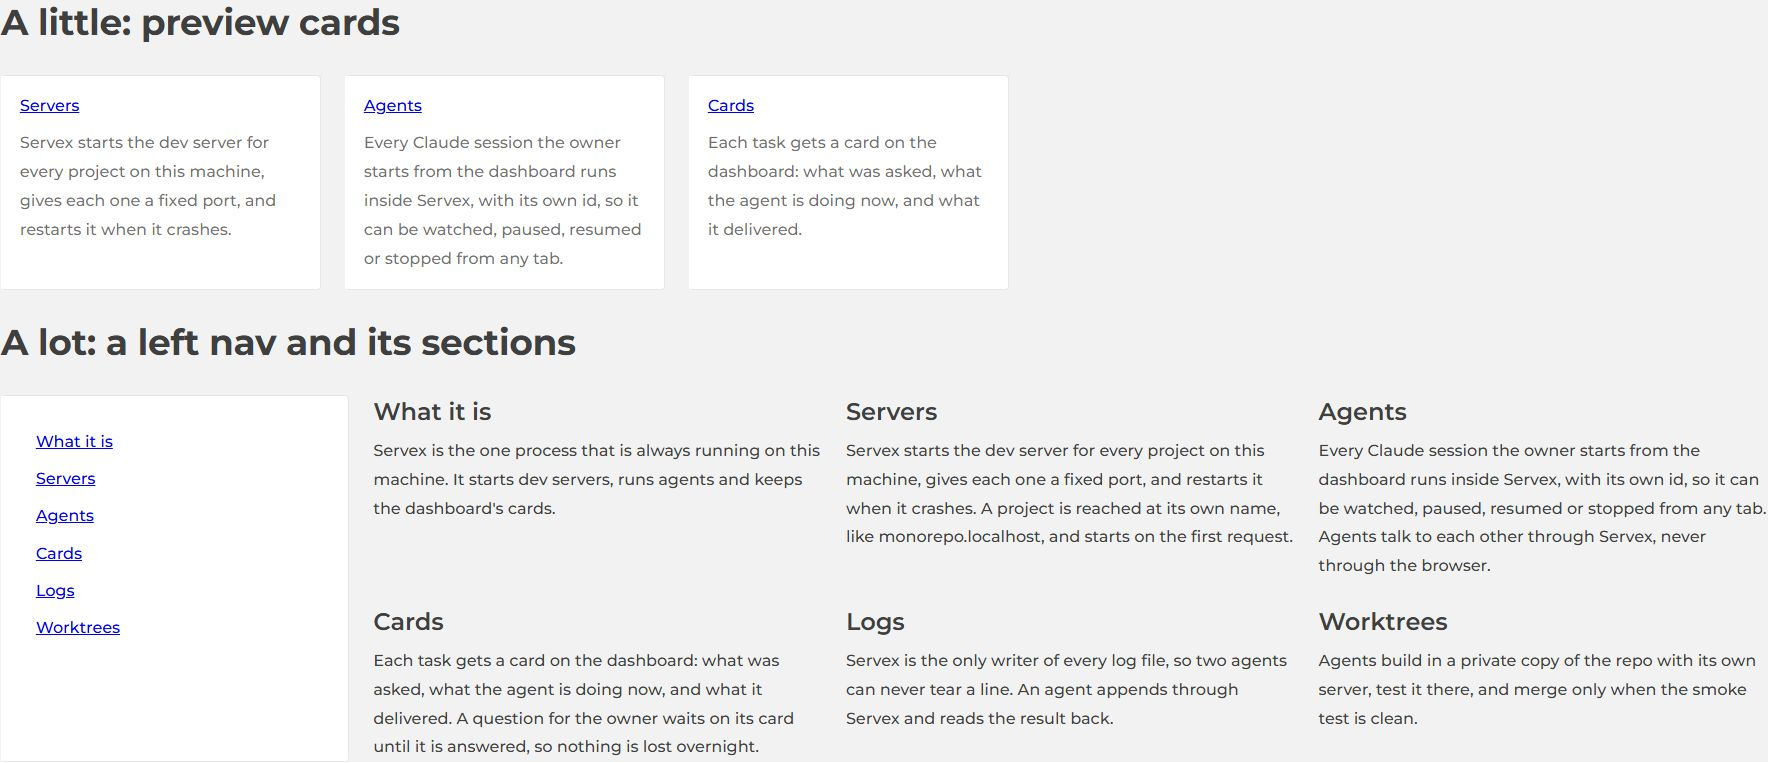
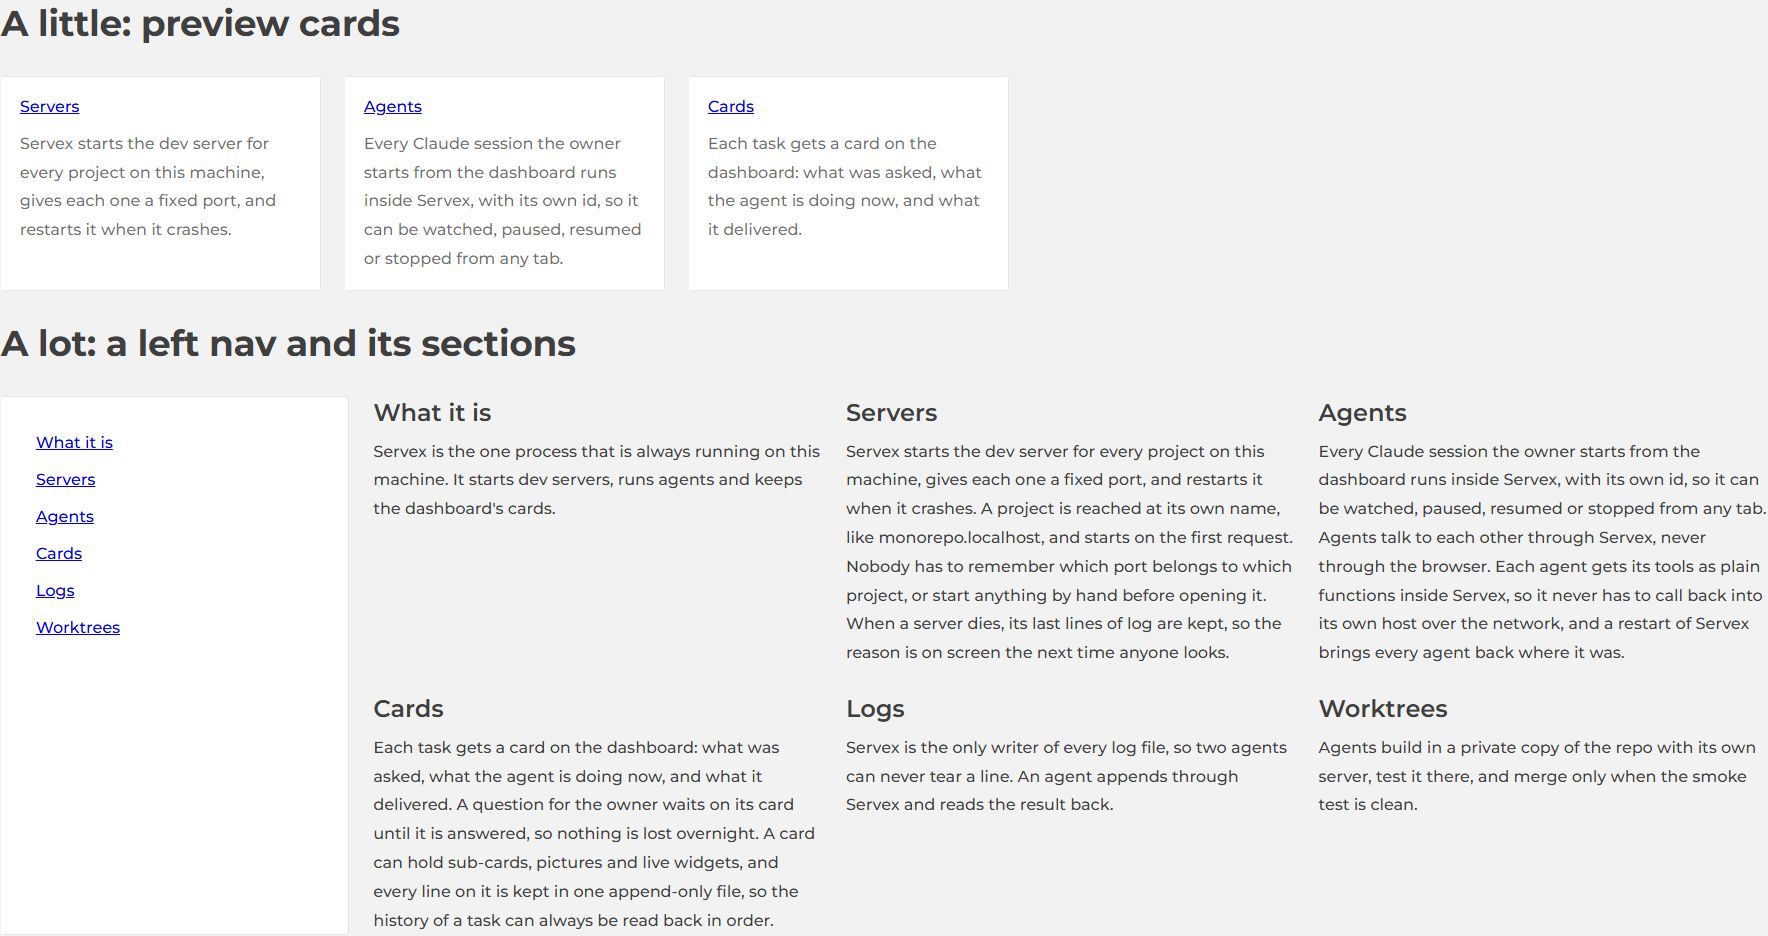
layouts/decide: review fixes (demo text, pictures one per row, C1-C5 naming, gen-questions, servex picks)

diff --git a/public/layouts/decide/demo.js b/public/layouts/decide/demo.js
@@ -1,4 +1,4 @@
-import { View, div, md, h3, p, ul, li, img, figure, figcaption } from "/app.js";
+import { View, div, md, h3, p, img, figure, figcaption } from "/app.js";
 
 View.stylesheet(import.meta, "decide.css");
 
@@ -10,13 +10,14 @@ View.stylesheet(import.meta, "decide.css");
 
    `live(fn)` wraps the demo in `.std-decide-live`, a hook with no CSS of its own: shoot.mjs
    screenshots exactly that element. It claims `wide`, because three columns of content never
-   live in the reading track (the layout skill, question 2).
+   live in the reading track (the layout skill, "The five questions" (sizing), question 2).
 
    The content is real: Servex and its three parts, from /framework/servex/. */
 
 export function pictures(meta, slug){
 	const here = new URL("./shots/", meta.url).pathname;
-	div.c("grid auto gap wide", () => {
+	// One picture per row: the 3440 shot is a wide strip, unreadable at half width.
+	div.c("flex v gap wide", () => {
 		for (const w of [1920, 3440]){
 			figure.c("flex v gap-35", () => {
 				img().attr("src", `${here}${slug}-${w}.jpg`).attr("alt", `The demo below, at ${w}px wide`).attr("loading", "lazy")
@@ -24,7 +25,7 @@ export function pictures(meta, slug){
 				figcaption.c("muted", `At ${w}px wide`);
 			});
 		}
-	}).style("--column", "24rem");
+	});
 }
 
 export function live(fn){
@@ -34,9 +35,9 @@ export function live(fn){
 
 // The three parts of Servex, each about the same length on purpose (the equal-height demo).
 export const PARTS = [
-	{ title: "Servers", body: "Servex starts the dev server for every project on this machine, gives each one a fixed port, and restarts it when it crashes. A project is reached at its own name, like monorepo.localhost, and starts on the first request." },
-	{ title: "Agents", body: "Every Claude session the owner starts from the dashboard runs inside Servex, with its own id, so it can be watched, paused, resumed or stopped from any tab. Agents talk to each other through Servex, never through the browser." },
-	{ title: "Cards", body: "Each task gets a card on the dashboard: what was asked, what the agent is doing now, and what it delivered. A question for the owner waits on its card until it is answered, so nothing is lost overnight." },
+	{ title: "Servers", body: "Servex starts the dev server for every project on this machine, gives each one a fixed port, and restarts it when it crashes. A project is reached at its own name, like monorepo.localhost, and starts on the first request. Nobody has to remember which port belongs to which project, or start anything by hand before opening it. When a server dies, its last lines of log are kept, so the reason is on screen the next time anyone looks." },
+	{ title: "Agents", body: "Every Claude session the owner starts from the dashboard runs inside Servex, with its own id, so it can be watched, paused, resumed or stopped from any tab. Agents talk to each other through Servex, never through the browser. Each agent gets its tools as plain functions inside Servex, so it never has to call back into its own host over the network, and a restart of Servex brings every agent back where it was." },
+	{ title: "Cards", body: "Each task gets a card on the dashboard: what was asked, what the agent is doing now, and what it delivered. A question for the owner waits on its card until it is answered, so nothing is lost overnight. A card can hold sub-cards, pictures and live widgets, and every line on it is kept in one append-only file, so the history of a task can always be read back in order." },
 ];
 
 export function column(part){
@@ -53,4 +54,3 @@ export function title_column({ centred }){
 	});
 }
 
-export { ul, li };

diff --git a/public/layouts/decide/servex/page.js b/public/layouts/decide/servex/page.js
@@ -1,4 +1,13 @@
-import { Page, md } from "/app.js";
+import { Page, md, div, p, h3 } from "/app.js";
+
+// The pick from each answer in answers.md, copied by hand after the run.
+const PICKS = [
+	["How much room is there?", "Most of a 3440 screen"],
+	["How much content is there?", "A little"],
+	["Is it outlined yet?", "Yes"],
+	["How will the content fill the width?", "A wall of cards"],
+	["Which approved layout fits?", "Tile wall"],
+];
 
 /* LAYOUT. Container: a child of /layouts/decide/, the ordinary page grid. Size: prose, the
    `main` track. Own layout: one markdown file. Preview: the default card.
@@ -13,7 +22,10 @@ export default new Page({
 	description: "The five questions, asked of /framework/servex/.",
 
 	content(){
-		md("**The five questions, asked of a real page one at a time.** The page is [/framework/servex/](/framework/servex/). Each question went to the same agent as its own turn, so it could think about that one thing only; the answers are below as it gave them.");
+		md("**The five questions, asked of a real page one at a time, picked a tile wall.** The page is [/framework/servex/](/framework/servex/). Each question went to the same agent as its own turn, so it could think about that one thing only. Its five picks first; its reasoning, as it gave it, below.");
+		div.c("grid auto gap wide", () => PICKS.forEach(([q, pick], i) => {
+			div.c("card flex v gap-35", () => { p.c("muted", `${i + 1}. ${q}`); h3(pick); });
+		})).style("--column", "14rem");
 		return md.file(import.meta, "answers.md");
 	},
 });

diff --git a/public/layouts/decide/questions.js b/public/layouts/decide/questions.js
@@ -1,6 +1,6 @@
-/* The layout decision questions: ONE copy, read by the page (/layouts/decide/) and written out
-   as questions.md for Server/ask-each.mjs. The same list, in prose, sits in the `layout` skill
-   under "Choosing a layout". Change one, change all three.
+/* The layout decision questions, read by the page (/layouts/decide/). gen-questions.mjs writes
+   questions.md from this file for Server/ask-each.mjs. The same list, in prose, sits in the
+   `layout` skill under "Choosing a layout (before sizing)"; change that one by hand.
 
    Each question is a judgement, worded with examples, never a do/don't rule: the owner
    (2026-09-28, 11:15 PM) warned that a rule gets followed too literally. The answers are the

diff --git a/public/layouts/decide/page.js b/public/layouts/decide/page.js
@@ -23,7 +23,7 @@ export default new Page({
 	children: "equal short centred amount servex",
 
 	content(){
-		md("**Answer these five questions in order, and the layout usually picks itself.** Each one is a judgement, not a rule: the answers under it are the usual ones, and a page can have a reason to pick something else.");
+		md("**Answer these five questions in order, and the layout usually picks itself.** Each one is a judgement, not a rule: the answers under it are the usual ones, and a page can have a reason to pick something else. Live demos of the fourth question are below the questions.");
 
 		div.c("grid auto gap wide", () => QUESTIONS.forEach((q, i) => {
 			div.c("card flex v gap-50", () => {

diff --git a/public/layouts/decide/equal/page.js b/public/layouts/decide/equal/page.js
@@ -11,7 +11,7 @@ export default new Page({
 	description: "Three columns that end at the same height.",
 
 	content(){
-		md("**Three columns fill a wide screen well when their content is about the same height.** Each card below holds about forty words, so the row ends in one straight line and no box has a hole in it.");
+		md("**Three columns fill a wide screen well when their content is about the same height.** Each card below holds about the same number of words, so the row ends in one straight line and no box has a hole in it.");
 		pictures(import.meta, "equal");
 		live(() => div.c("grid three gap", () => PARTS.forEach(column)).style("--column", "16rem"));
 	},

diff --git a/.claude/skills/layout/SKILL.md b/.claude/skills/layout/SKILL.md
@@ -35,30 +35,30 @@ genuinely needs to, and say why in a decision line.
 - **Look before you merge.** Screenshot the page at 1280, 1920, 2560 and 3440 (`node
   Server/layout-check.mjs <url>`) and read the contact sheet.
 
-## Choosing a layout: five questions, one at a time (the owner, 2026-09-28)
+## Choosing a layout (before sizing): C1–C5, one at a time (the owner, 2026-09-28)
 
-Before the sizing questions below, choose the layout. Think about each of these on its own,
+Before the five sizing questions below, choose the layout. These are numbered C1–C5 so they are never mistaken for those. Think about each of these on its own,
 in order; a list read all at once gets answered all at once, and thinly. Each is a judgement
 with its usual answers, not a rule. Drawn, with live demos: [/layouts/decide/](/layouts/decide/).
 
-1. **How much room is there?** Work it out top down: the site nav, a rail or a ToC are known
+- C1. **How much room is there?** Work it out top down: the site nav, a rail or a ToC are known
    before the page draws, so the room left is known too. A phone always gets one column; that
    is the floor, not the design. *Usually:* a phone · one reading column · a wide main beside a
    sidebar · most of a 3440 screen.
-2. **How much content is there?** A little (a preview card, a few lines) wants a small, tight
+- C2. **How much content is there?** A little (a preview card, a few lines) wants a small, tight
    box; a lot (many sections) wants structure a reader can steer by, such as tabs or a left nav.
    [Both, side by side](/layouts/decide/amount/).
-3. **Is it outlined yet?** A layout chosen before you know what the page says is a guess. If the
+- C3. **Is it outlined yet?** A layout chosen before you know what the page says is a guess. If the
    sections, their order, the demos and the tabs are not written down, write that outline first;
    the layout often picks itself after.
-4. **How will the content fill the width?** On a wide screen the answer is nearly always "fill
+- C4. **How will the content fill the width?** On a wide screen the answer is nearly always "fill
    it", so the question is how. Columns side by side read best when their content is roughly
    equal in height ([equal](/layouts/decide/equal/)); one short column leaves a hole
    ([short](/layouts/decide/short/)); a short title column centred vertically turns the hole into
    weight ([the fix](/layouts/decide/centred/): `flex v h-center` on the title's box).
    *Usually:* equal columns · a centred title column beside the rest · a wall of cards · a nav
    column beside a centred main · tabs or a left nav · one small box with the space left on purpose.
-5. **Which approved layout fits?** Standard, Split, Columns, Tile wall, Rail + content, Docs
+- C5. **Which approved layout fits?** Standard, Split, Columns, Tile wall, Rail + content, Docs
    three-region ([the approved set](/layouts/doc/studies/approved/)). If none fits, build it as a
    proposal and say it is new. Each layout the owner approves makes the next choice more certain,
    so these answers firm up over time; record your answer as a `decision` line either way.

diff --git a/public/layouts/decide/readme.md b/public/layouts/decide/readme.md
@@ -3,7 +3,7 @@
 Five questions, asked in order, that pick a page's layout: how much room, how much content, is it outlined, how to fill the width, which approved layout. Each is a judgement with its usual answers, never a rule (the owner, 2026-09-28: rules get followed too literally).
 
 ## Use
-- The questions live once, in `questions.js`. The page draws them; `questions.md` is the same list, one per line, for `node Server/ask-each.mjs`; the `layout` skill has them in prose. Change one, change all three.
+- The questions live in `questions.js`. The page draws them; `node gen-questions.mjs` writes `questions.md` from it (one per line, for `node Server/ask-each.mjs`); the `layout` skill has them in prose, so change that by hand.
 - Four demos of the fourth question: `equal/`, `short/`, `centred/` (the fix: `flex v h-center` on the title's box), `amount/`.
 - `servex/` is the five questions asked of /framework/servex/ one at a time: `context.md` in, `answers.md` out.
 
